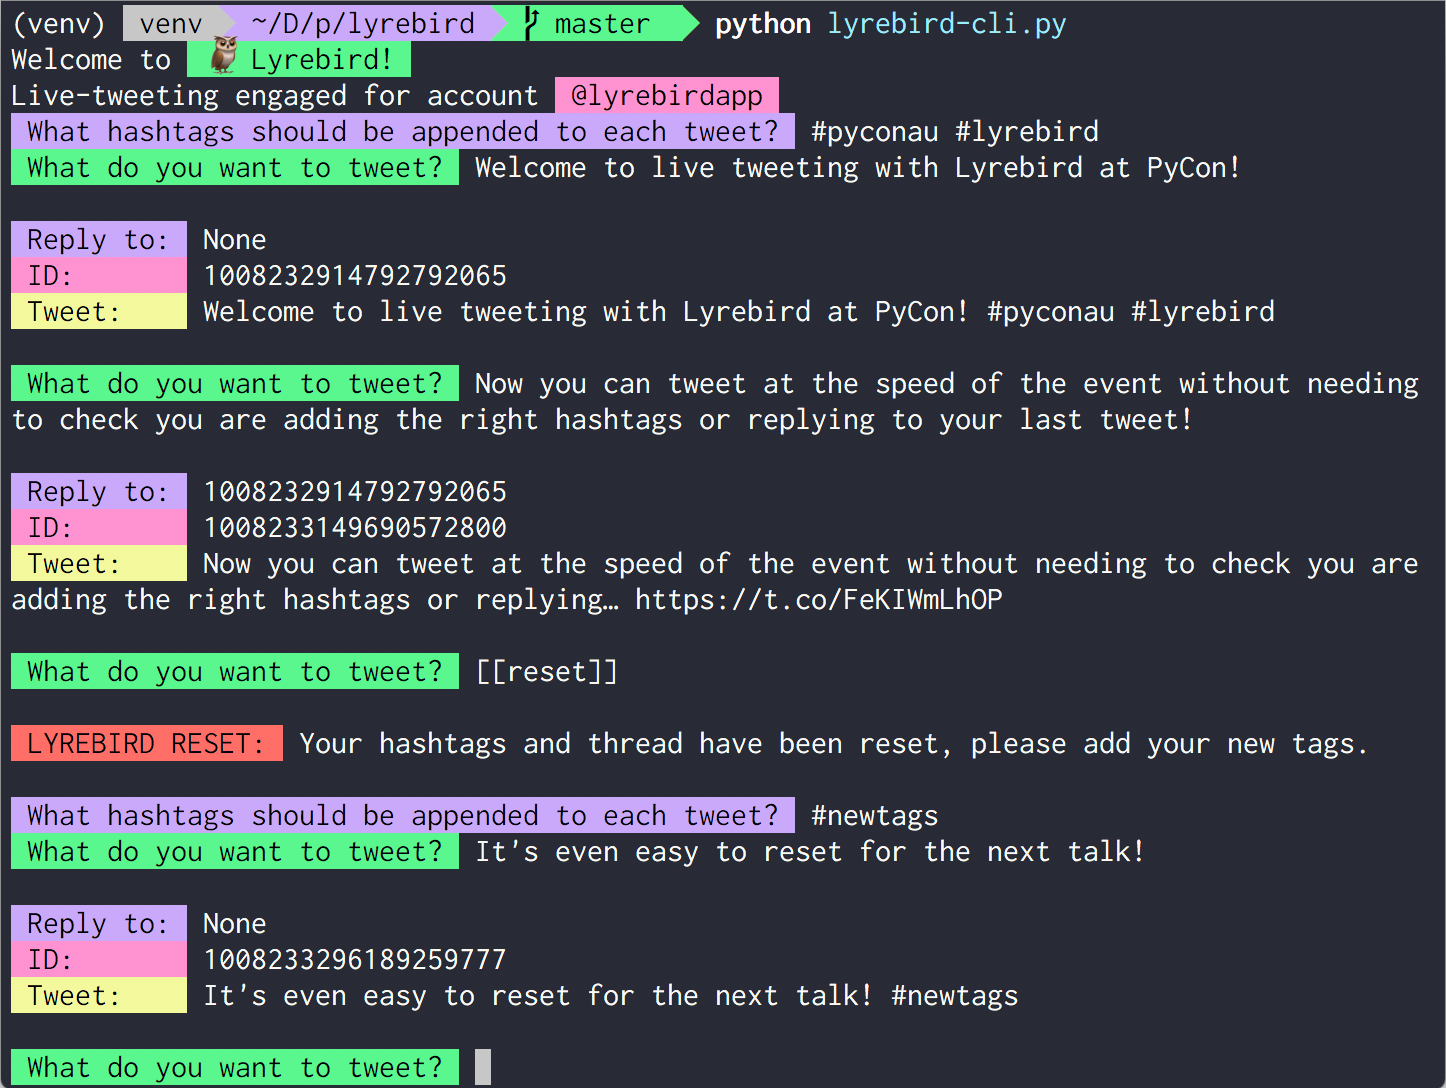
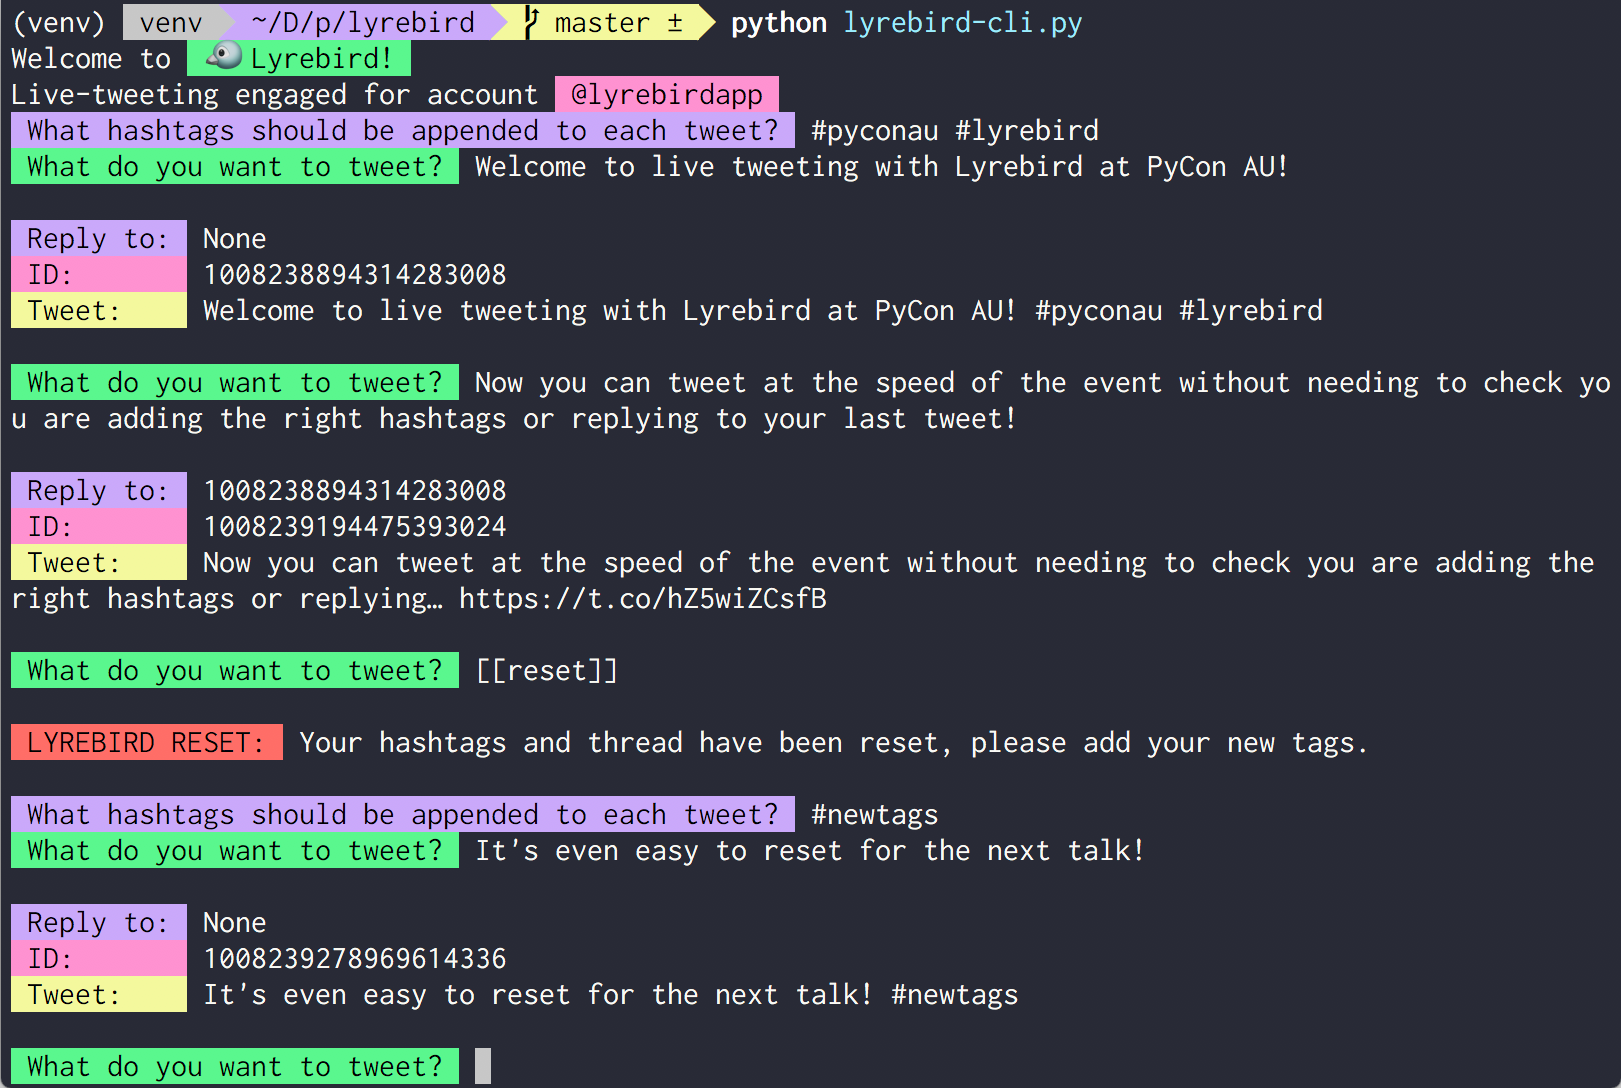
Correct some typos

Changed region(s): [[0.0, 0.0, 1.0, 1.0], [0.0, 0.5938, 0.9336, 1.0], [0.7469, 0.7812, 0.778, 0.8125]]

diff --git a/lyrebird-cli.py b/lyrebird-cli.py
@@ -58,7 +58,7 @@ def sendTweet(tweet, hashtags, response):
     }
 
 
-print("Welcome to " + Back.GREEN + Fore.BLACK + " 🦉 Lyrebird! ")
+print("Welcome to " + Back.GREEN + Fore.BLACK + " 🐦 Lyrebird! ")
 
 print(
     "Live-tweeting engaged for account "

diff --git a/README.md b/README.md
@@ -1,6 +1,6 @@
-# Lyrebird
+# 🐦 Lyrebird
 
-Lyrebird helps you tweet faster and eaier from events by automatically appending the hashtags for you.
+Lyrebird helps you tweet faster and easier from events by automatically appending the hashtags for you.
 
 ![Lyrebird CLI Screenshot](https://raw.githubusercontent.com/teknetia/lyrebird/master/docs/lyrebird-cli.png)
 
@@ -29,7 +29,7 @@ python lyrebird-cli.py
 Specify your hashtags: 
 
 ```
-Welcome to 🦉 Lyrebird!
+Welcome to 🐦 Lyrebird!
 What hashtags should be appended to each tweet?
 ```
 
